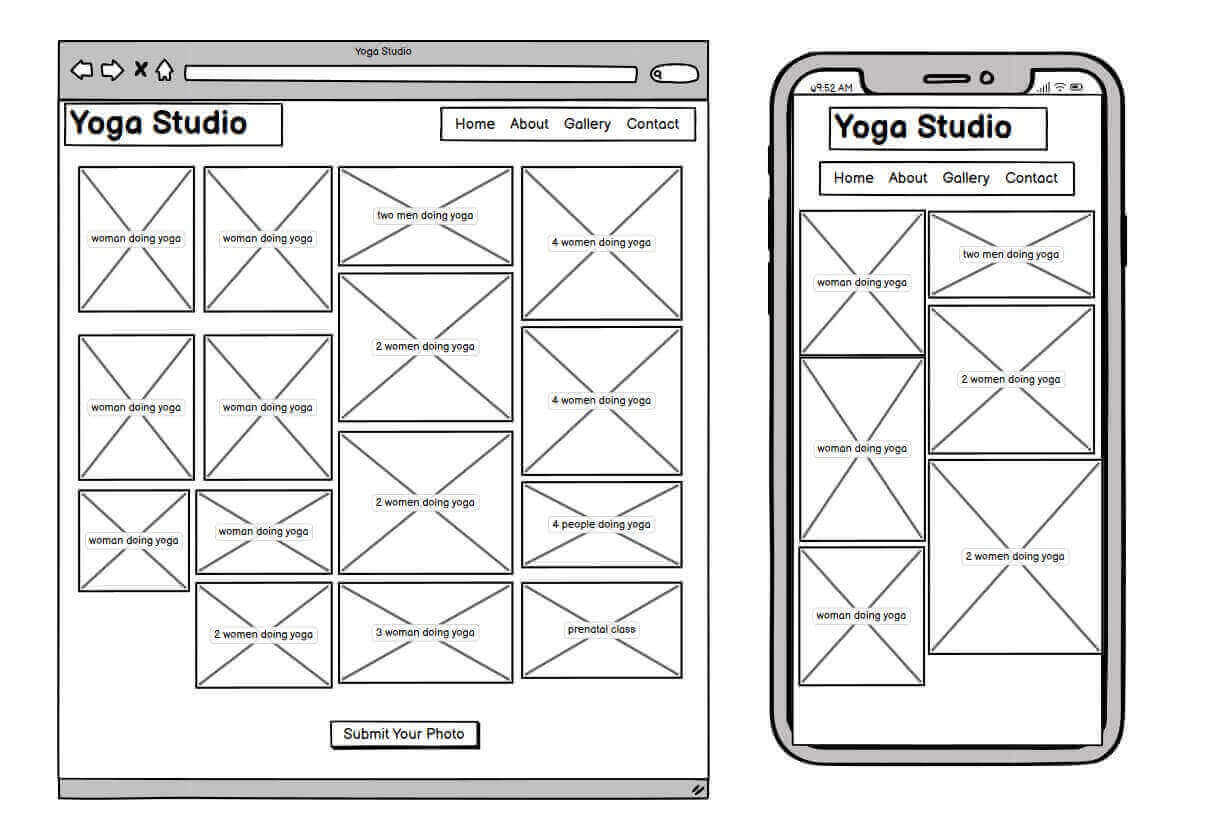
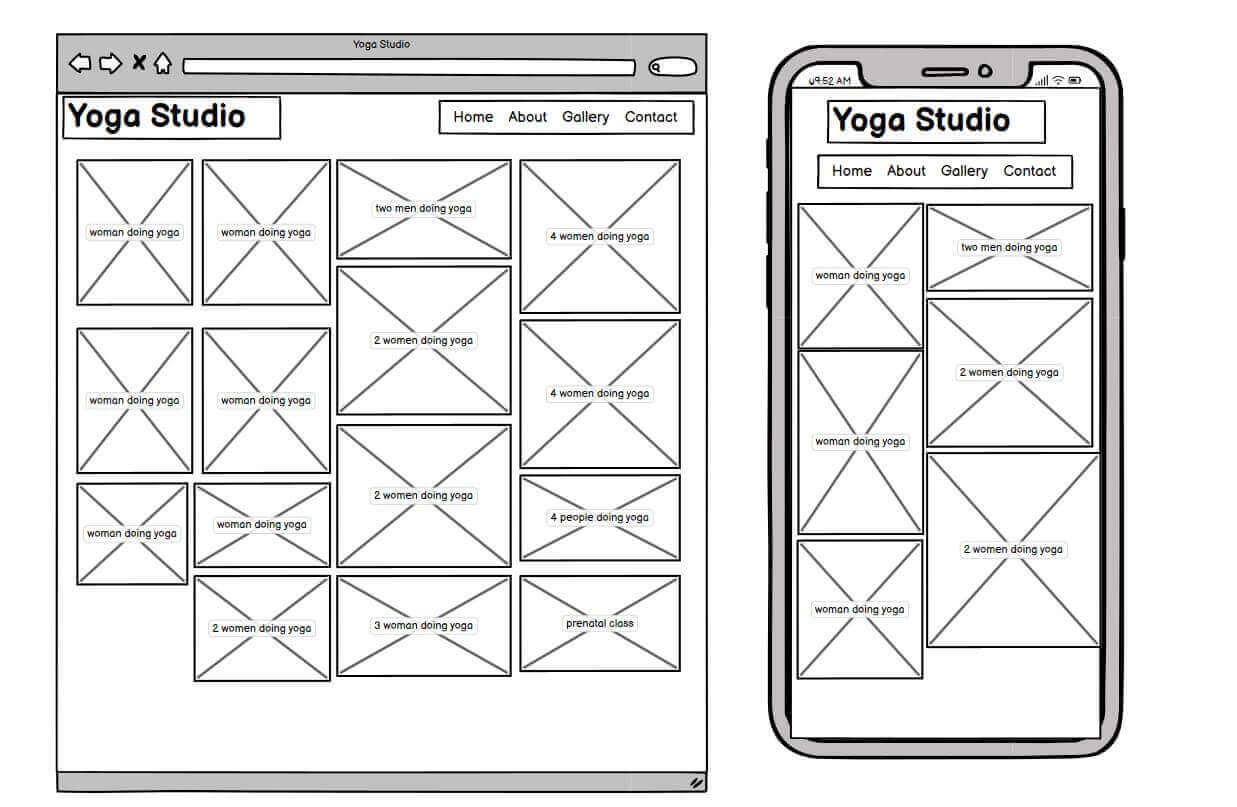
Remove button to gallery

Changed region(s): [[0.0312, 0.031, 0.936, 0.9913]]

diff --git a/assets/css/style.css b/assets/css/style.css
@@ -419,22 +419,6 @@ footer {
     border: 1px solid #777;
 }
 
-#gallery {
-    border-radius: 0px;
-    border-width: 2px;
-    padding-top: 50px;
-    margin-top: 50px;
-}
-
-#gallery a {
-    font-size: 17px;
-    font-weight: 500;
-    text-decoration: none;
-    padding: 14px 23px;
-    text-align: center;
-    margin-left: 800px;
-}
-
 /* Sign up page */
 .form-section {
     clear: both;

diff --git a/gallery.html b/gallery.html
@@ -113,9 +113,6 @@
             </a>
         </div>
     </div>
-        <div id="gallery">
-            <a href="#photos" class="button">Submit Your Photo</a>
-        </div>
         <!--Footer-->
         <footer>
             <div class="address">
